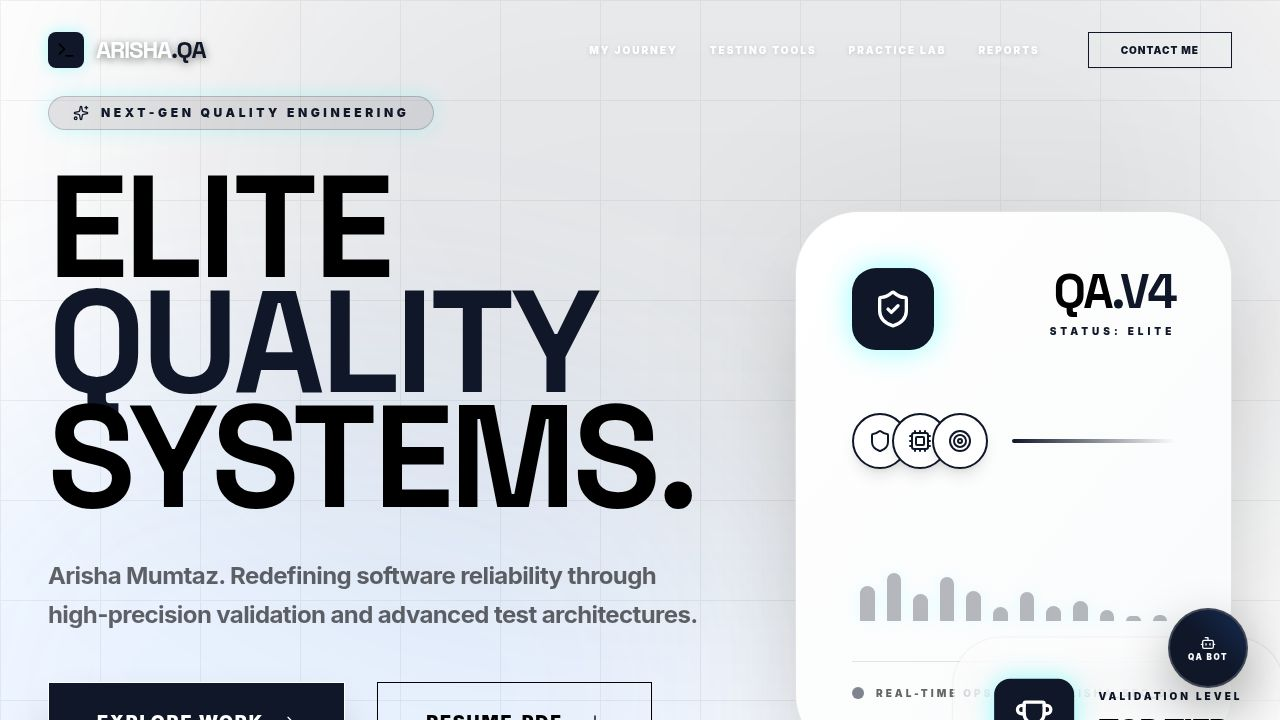
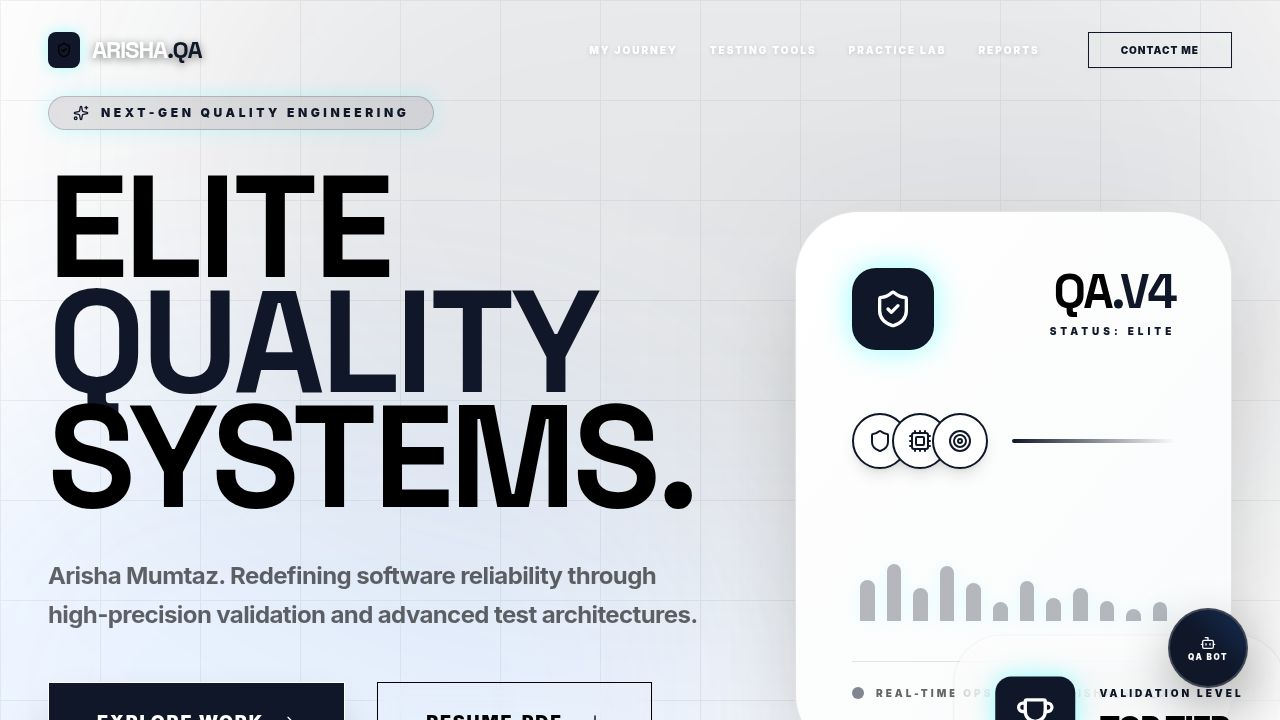
Add glass effect to navbar and fix contact button functionality
Update Navbar component to include a glass effect on scroll, change text color for visibility, and link the "CONTACT ME" button to the footer section. Update Footer component with an ID for smooth scrolling.

Replit-Commit-Author: Agent
Replit-Commit-Session-Id: 6c8492cf-f970-45e6-8380-ced1f13df30b
Replit-Commit-Checkpoint-Type: full_checkpoint
Replit-Commit-Event-Id: 36692c86-821d-48b6-bda3-8f484b1e4f4f
Replit-Commit-Screenshot-Url: https://storage.googleapis.com/screenshot-production-us-central1/b83f8884-c3f5-45ec-b965-05cc816555cb/6c8492cf-f970-45e6-8380-ced1f13df30b/j7ig8Am
Replit-Helium-Checkpoint-Created: true

diff --git a/client/src/components/layout/Navbar.tsx b/client/src/components/layout/Navbar.tsx
@@ -20,7 +20,7 @@ export function Navbar() {
     { name: "REPORTS", href: "/#performance" },
   ];
 
-  const scrollToSection = (e: React.MouseEvent<HTMLAnchorElement>, href: string) => {
+  const scrollToSection = (e: React.MouseEvent<HTMLAnchorElement> | React.MouseEvent<HTMLButtonElement>, href: string) => {
     if (href.startsWith("/#")) {
       e.preventDefault();
       const id = href.substring(2);
@@ -31,18 +31,20 @@ export function Navbar() {
       } else {
         window.location.href = href;
       }
+    } else {
+      window.location.href = href;
     }
   };
 
   return (
-    <nav className={`fixed top-0 w-full z-50 transition-all duration-300 ${isScrolled || isMobileMenuOpen ? "bg-black/95 backdrop-blur-md border-b border-white/20 py-4" : "py-6 md:py-8"}`}>
+    <nav className={`fixed top-0 w-full z-50 transition-all duration-300 ${isScrolled || isMobileMenuOpen ? "bg-white/20 backdrop-blur-md border-b border-black/10 py-4 shadow-sm" : "py-6 md:py-8"}`}>
       <div className="container-custom flex items-center justify-between">
         <Link href="/">
           <a className="flex items-center gap-2 md:gap-3 group">
             <div className="p-1.5 md:p-2 bg-primary text-black group-hover:rotate-12 transition-transform rounded-lg shadow-[0_0_15px_rgba(0,255,255,0.3)]">
               <ShieldCheck className="h-4 w-4 md:h-5 md:h-5" />
             </div>
-            <span className="font-display font-black text-xl md:text-2xl tracking-tighter uppercase text-white drop-shadow-[0_2px_4px_rgba(0,0,0,0.5)]">ARISHA<span className="text-primary">.QA</span></span>
+            <span className={`font-display font-black text-xl md:text-2xl tracking-tighter uppercase transition-colors ${isScrolled || isMobileMenuOpen ? "text-black" : "text-white drop-shadow-[0_2px_4px_rgba(0,0,0,0.5)]"}`}>ARISHA<span className="text-primary">.QA</span></span>
           </a>
         </Link>
         
@@ -53,19 +55,23 @@ export function Navbar() {
                 key={item.name}
                 href={item.href}
                 onClick={(e) => scrollToSection(e, item.href)}
-                className="text-[10px] font-black tracking-[0.2em] text-white hover:text-primary transition-colors uppercase drop-shadow-sm"
+                className={`text-[10px] font-black tracking-[0.2em] uppercase transition-colors hover:text-primary ${isScrolled ? "text-black" : "text-white drop-shadow-sm"}`}
               >
                 {item.name}
               </a>
             ))}
           </div>
-          <Button variant="outline" className="rounded-none border-primary text-primary font-black text-[10px] tracking-widest uppercase hover:bg-transparent hover:text-primary px-8">
+          <Button 
+            variant="outline" 
+            onClick={(e) => scrollToSection(e, "/#contact")}
+            className={`rounded-none border-primary font-black text-[10px] tracking-widest uppercase px-8 transition-all ${isScrolled ? "text-primary hover:bg-primary/10" : "text-primary border-primary hover:bg-primary/10"}`}
+          >
             CONTACT ME
           </Button>
         </div>
 
         <button 
-          className="lg:hidden p-2 text-white" 
+          className={`lg:hidden p-2 transition-colors ${isScrolled || isMobileMenuOpen ? "text-black" : "text-white"}`} 
           onClick={() => setIsMobileMenuOpen(!isMobileMenuOpen)}
           aria-label="Toggle menu"
         >
@@ -74,19 +80,22 @@ export function Navbar() {
       </div>
 
       {/* Mobile Menu */}
-      <div className={`lg:hidden absolute top-full left-0 w-full bg-black border-b border-white/10 transition-all duration-300 overflow-hidden ${isMobileMenuOpen ? "max-h-screen opacity-100 py-8" : "max-h-0 opacity-0"}`}>
+      <div className={`lg:hidden absolute top-full left-0 w-full bg-white/95 backdrop-blur-xl border-b border-black/10 transition-all duration-300 overflow-hidden ${isMobileMenuOpen ? "max-h-screen opacity-100 py-8" : "max-h-0 opacity-0"}`}>
         <div className="container-custom flex flex-col gap-6">
           {navItems.map((item) => (
             <a
               key={item.name}
               href={item.href}
               onClick={(e) => scrollToSection(e, item.href)}
-              className="text-xs font-black tracking-[0.2em] text-white hover:text-primary transition-colors uppercase"
+              className="text-xs font-black tracking-[0.2em] text-black hover:text-primary transition-colors uppercase"
             >
               {item.name}
             </a>
           ))}
-          <Button className="rounded-none border-primary bg-primary text-black font-black text-[10px] tracking-widest uppercase h-12 w-full hover:bg-transparent hover:text-primary transition-colors">
+          <Button 
+            onClick={(e) => scrollToSection(e, "/#contact")}
+            className="rounded-none border-primary bg-primary text-black font-black text-[10px] tracking-widest uppercase h-12 w-full hover:bg-transparent hover:text-primary transition-colors"
+          >
             CONTACT ME
           </Button>
         </div>

diff --git a/client/src/components/layout/Footer.tsx b/client/src/components/layout/Footer.tsx
@@ -31,7 +31,7 @@ export function Footer() {
   };
 
   return (
-    <footer className="bg-white text-black py-20 md:py-40 relative overflow-hidden border-t border-black/10">
+    <footer id="contact" className="bg-white text-black py-20 md:py-40 relative overflow-hidden border-t border-black/10">
       {/* Background Decor */}
       <div className="absolute top-0 right-0 w-[500px] h-[500px] bg-primary/10 rounded-full blur-[120px] -translate-y-1/2 translate-x-1/2" />
       
